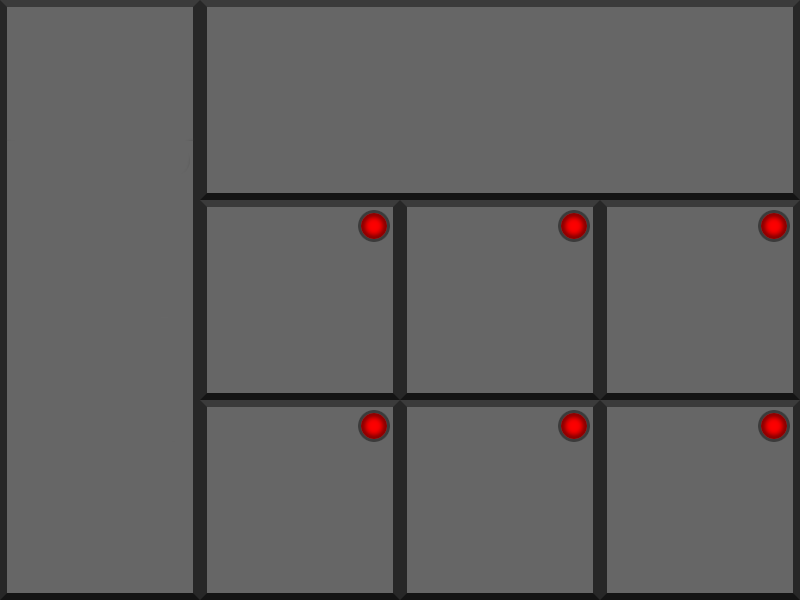
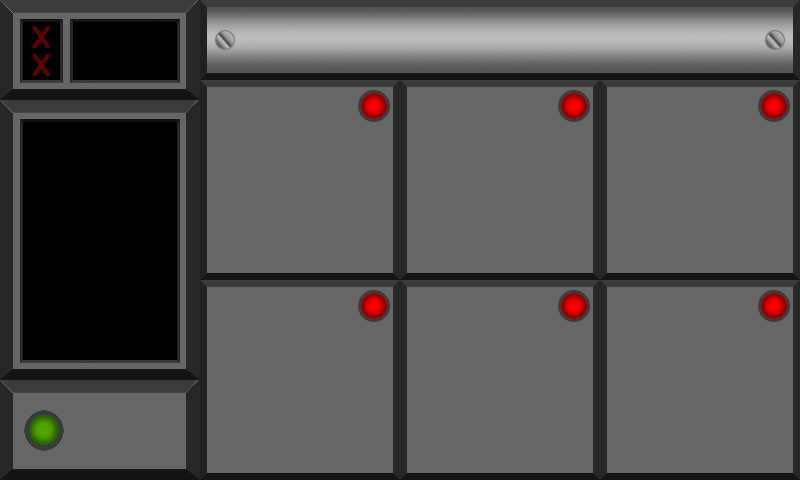
values and sprites updated for 800x480 resolution

diff --git a/piOneMain.py b/piOneMain.py
@@ -40,13 +40,13 @@ if DEBUG:
 #   constants
 #       pi stuff
 PIHEIGHT = 800
-PIWIDTH = 600
+PIWIDTH = 480
 
 #   start pygame
 pygame.init()
  
 #   makes the screen and clock
-screen = pygame.display.set_mode((PIHEIGHT, PIWIDTH))
+screen = pygame.display.set_mode((PIHEIGHT, PIWIDTH), pygame.FULLSCREEN)
 clock = pygame.time.Clock()
 
 #   window title
@@ -55,7 +55,7 @@ pygame.display.set_caption("Keep Talking")
 #   variables
 gamestate = "starting"
 strikes = 0
-timerLocation = (250,50)
+timerLocation = (0,0)
 timeLimit = 300000  #   5 minutes in miliseconds
 startTime = 0   #   updates when the game starts
 buttonLogicVariable = "click"  #   is "click" if button must be pressed and immediately released, otherwise is the color of the button indicator strip as a string
@@ -67,12 +67,12 @@ buttonShortPress = 500
 moduleTable = {
 
     "wires"     : [False, None, None, None, None],
-    "button"    : [False, None, None, None, (200, 200)],
-    "simon"     : [False, None, None, None, (400, 200)],
-    "morse"     : [False, None, None, None, (400, 400)],
-    "maze"      : [False, None, None, None, (600, 200)],
-    "passwords" : [False, None, None, None, (200, 400)],
-    "needy"     : [False, None, None, None, (600, 400)]
+    "button"    : [False, None, None, None, (200, 80)],
+    "simon"     : [False, None, None, None, (400, 80)],
+    "morse"     : [False, None, None, None, (400, 280)],
+    "maze"      : [False, None, None, None, (600, 80)],
+    "passwords" : [False, None, None, None, (200, 280)],
+    "needy"     : [False, None, None, None, (600, 280)]
 
 }
 
@@ -109,8 +109,9 @@ if moduleTable["button"][0]:
     if DEBUG:
         print(buttonLogicVariable)
 
-#   create all the objects
-#   (objects go here)
+#   create all the rects
+#   (rects go here)
+startButtonRect = pygame.Rect(250, 300, 300, 250)
 
 
 #   starting game loop, handles the main menu
@@ -134,7 +135,7 @@ while running:
             #   checks when the mouse is pressed
             if event.type == pygame.MOUSEBUTTONDOWN:
                 #   if the mouse is clicked while over the begin button then change gamestate to playing and setup the main window
-                if 250 < mouse[0] < 550 and 375 < mouse[1] < 525:
+                if startButtonRect.collidepoint(mouse):
                     gamestate = "playing"
                     startTime = pygame.time.get_ticks()
                     timeLimit += startTime
@@ -161,7 +162,7 @@ while running:
             secondsRemaining = "0" + secondsRemaining
         timerText = classes.timerFont.render(f"{minutesRemaining}:{secondsRemaining}", False, (255, 0, 0))
         screen.blit(classes.strikeList[strikes], timerLocation)
-        screen.blit(timerText, (350,80))
+        screen.blit(timerText, (100,30))
         if currentTime >= timeLimit:
             screen.blit(classes.loseScreen, (0,0))
             gamestate = "over"

diff --git a/classes.py b/classes.py
@@ -4,7 +4,7 @@ import codeGenLibrary as CODE
 
 #   adds a bunch of stuff so vs code doesnt get pissed at me
 screen = pygame.display.set_mode((0, 0))
-PIHEIGHT = 600
+PIHEIGHT = 480
 PIWIDTH = 800
 
 
